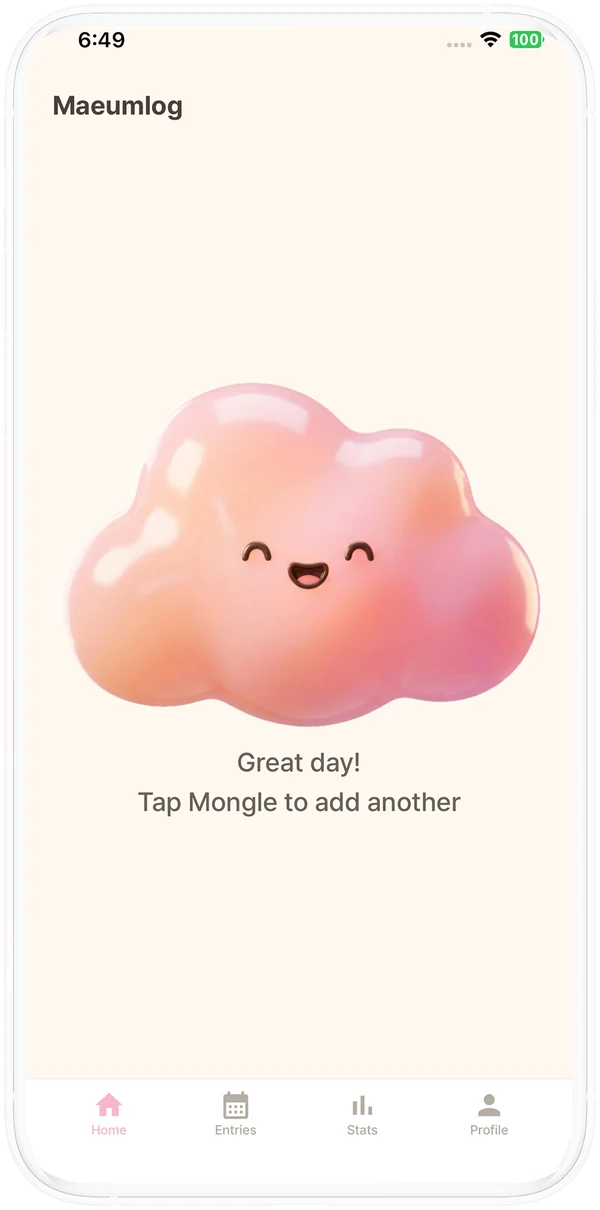
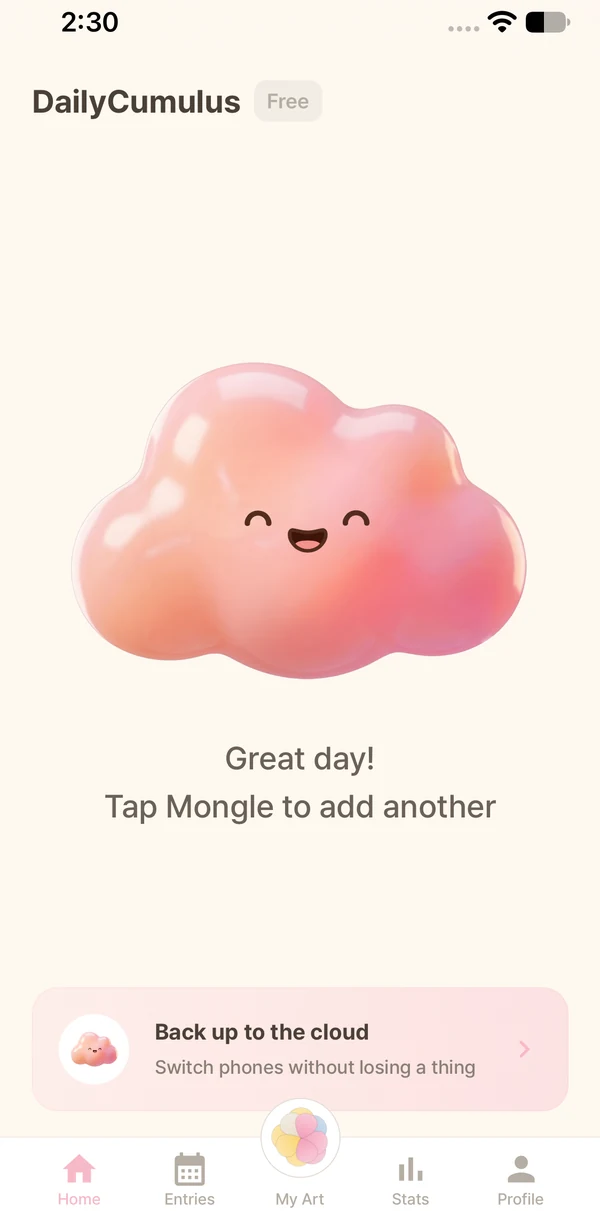
앱 화면을 지금 앱으로 · 2단계를 My Art(한 달이 꽃으로)로 · 최악 한 줄을 앱 문구에 맞춤
- 화면 5장(영어·한국어): 옛 이름 Maeumlog 홈·탭 4개·글자 칩 활동·이모지 통계 → 1.0.9 화면(아이콘 활동·My Art·9월 다 핀 꽃)
- 2단계: 달력 → Watch your month bloom / 한 달이 꽃으로 피어요
- 3단계: Coffee → A good meal(커피는 지금 활동 칩에 없다)
- VERSION 36(그림 캐시)

diff --git a/ko/index.html b/ko/index.html
@@ -7,11 +7,11 @@
   <title>데일리몽글 · 광고 없는 감정일기</title>
   <meta name="description" content="몽글이 한 번 누르고 기분만 고르면 끝. 더 남기고 싶은 날엔 짧은 글이나 사진도 붙여 봐요. 광고 없는 감정일기, 데일리몽글.">
   <!-- 파비콘은 회사 심볼(스티커 M) — assets/brand -->
-  <link rel="icon" href="../favicon.ico?v=35" sizes="any">
-  <link rel="icon" href="../assets/brand/favicon-32.png?v=35" type="image/png" sizes="32x32">
-  <link rel="icon" href="../assets/brand/favicon-192.png?v=35" type="image/png" sizes="192x192">
+  <link rel="icon" href="../favicon.ico?v=36" sizes="any">
+  <link rel="icon" href="../assets/brand/favicon-32.png?v=36" type="image/png" sizes="32x32">
+  <link rel="icon" href="../assets/brand/favicon-192.png?v=36" type="image/png" sizes="192x192">
   <link rel="canonical" href="https://mauvelabsinc.com/ko/">
-  <link rel="apple-touch-icon" href="../assets/brand/apple-touch-icon.png?v=35">
+  <link rel="apple-touch-icon" href="../assets/brand/apple-touch-icon.png?v=36">
   <meta name="theme-color" content="#FFF8F0">
   <!-- 사업자등록번호 등 숫자를 아이폰이 전화번호 링크로 바꾸지 않게 -->
   <meta name="format-detection" content="telephone=no">
@@ -31,12 +31,12 @@
   <link rel="alternate" hreflang="x-default" href="https://mauvelabsinc.com/">
   <link rel="preload" href="../assets/fraunces.woff2" as="font" type="font/woff2" crossorigin>
   <link rel="stylesheet" href="https://cdn.jsdelivr.net/gh/orioncactus/pretendard@v1.3.9/dist/web/variable/pretendardvariable-dynamic-subset.min.css">
-  <link rel="stylesheet" href="../assets/site-v2.css?v=35">
+  <link rel="stylesheet" href="../assets/site-v2.css?v=36">
 </head>
 <body>
 <header class="nav wrap">
   <!-- 회사 로고(모브랩스). 원본은 assets/brand/mauvelabs-logo-original.png -->
-  <a class="brand brand-logo" href="./" aria-label="Mauve Labs"><img src="../assets/brand/mauvelabs-logo@2x.png?v=35" alt="Mauve Labs" height="48"></a>
+  <a class="brand brand-logo" href="./" aria-label="Mauve Labs"><img src="../assets/brand/mauvelabs-logo@2x.png?v=36" alt="Mauve Labs" height="48"></a>
   <nav aria-label="Main">
     <a href="#how">사용법</a>
     <a href="#private" class="hide-sm">개인정보</a>
@@ -52,15 +52,15 @@
       <h1>지금 내 기분, <em>가볍게</em> 남겨요.</h1>
       <p class="lede">몽글이 한 번 누르고 기분만 고르면 끝이에요. 더 쓰고 싶은 날엔 짧은 글이나 사진도 붙여 봐요. 광고도, 부담도 없어요.</p>
       <div class="badges">
-        <a href="https://apps.apple.com/app/id6814691795" aria-label="App Store에서 다운로드"><img src="../img/ko/badge-app-store.svg?v=35" alt="App Store에서 다운로드" height="50"></a>
-        <a href="https://play.google.com/store/apps/details?id=com.mauvelabs.maeumlog&amp;referrer=utm_source%3Dmauvelabs-site%26utm_medium%3Dhero" aria-label="Google Play에서 다운로드하기" class="gp"><img src="../img/ko/badge-google-play.png?v=35" alt="Google Play에서 다운로드하기" height="50"></a>
+        <a href="https://apps.apple.com/app/id6814691795" aria-label="App Store에서 다운로드"><img src="../img/ko/badge-app-store.svg?v=36" alt="App Store에서 다운로드" height="50"></a>
+        <a href="https://play.google.com/store/apps/details?id=com.mauvelabs.maeumlog&amp;referrer=utm_source%3Dmauvelabs-site%26utm_medium%3Dhero" aria-label="Google Play에서 다운로드하기" class="gp"><img src="../img/ko/badge-google-play.png?v=36" alt="Google Play에서 다운로드하기" height="50"></a>
       </div>
       <p class="fine">무료 다운로드 · 아이폰, 안드로이드</p>
     </div>
     <div class="hero-art" aria-hidden="true">
       <!-- 홈 화면이 주인공이고, 통계(기분 그래프)는 그 뒤 옆에 조금 작게(홈 화면을 가리지 않는다) -->
-      <img class="phone phone-side" src="../img/ko/screen-5.webp?v=35" alt="" width="210">
-      <img class="phone phone-main" src="../img/ko/screen-1.webp?v=35" alt="" width="300">
+      <img class="phone phone-side" src="../img/ko/screen-5.webp?v=36" alt="" width="210">
+      <img class="phone phone-main" src="../img/ko/screen-1.webp?v=36" alt="" width="300">
       <span class="float m1 mongle" data-anim="mongle-very-good-bounce"><img src="../img/mongle-very-good.webp" alt=""></span>
       <span class="float m2 mongle" data-anim="mongle-good-bounce"><img src="../img/mongle-good.webp" alt=""></span>
     </div>
@@ -87,9 +87,9 @@
       <div class="story-stage" aria-hidden="true">
         <figure class="polaroid stage-frame"><span class="tape stage-tape"></span>
           <div class="stage-screens">
-            <img src="../img/ko/screen-2.webp?v=35" alt="" class="on" data-step="0">
-            <img src="../img/ko/screen-4.webp?v=35" alt="" data-step="1">
-            <img src="../img/ko/screen-6.webp?v=35" alt="" data-step="2">
+            <img src="../img/ko/screen-2.webp?v=36" alt="" class="on" data-step="0">
+            <img src="../img/ko/screen-4.webp?v=36" alt="" data-step="1">
+            <img src="../img/ko/screen-6.webp?v=36" alt="" data-step="2">
           </div>
         </figure>
       </div>
@@ -98,19 +98,19 @@
           <span class="step-num">01</span>
           <h3>톡톡 눌러서 끝</h3>
           <p>기분을 고르고, 어떤 감정이었는지, 뭘 했는지 톡톡 눌러요. 글은 안 써도 괜찮아요.</p>
-          <figure class="polaroid step-shot tilt-l"><span class="tape pink"></span><img src="../img/ko/screen-2.webp?v=35" alt="데일리몽글에서 기분·감정·활동을 고르는 화면" width="240"></figure>
+          <figure class="polaroid step-shot tilt-l"><span class="tape pink"></span><img src="../img/ko/screen-2.webp?v=36" alt="데일리몽글에서 기분·감정·활동을 고르는 화면" width="240"></figure>
         </li>
         <li class="step" data-step="1">
           <span class="step-num">02</span>
-          <h3>한 달이 한눈에</h3>
-          <p>하루하루가 달력 위 작은 구름이 돼요. 애쓰지 않아도 내 마음 흐름이 보여요.</p>
-          <figure class="polaroid step-shot tilt-r"><span class="tape mint"></span><img src="../img/ko/screen-4.webp?v=35" alt="데일리몽글 달력에 담긴 한 달의 기분" width="240"></figure>
+          <h3>한 달이 꽃으로 피어요</h3>
+          <p>하루가 그날 기분 색 꽃잎 한 장이 돼요. 한 달이 지나면 내 마음들이 꽃 한 송이로 피어나요.</p>
+          <figure class="polaroid step-shot tilt-r"><span class="tape mint"></span><img src="../img/ko/screen-4.webp?v=36" alt="데일리몽글에서 한 달의 기분으로 핀 꽃" width="240"></figure>
         </li>
         <li class="step" data-step="2">
           <span class="step-num">03</span>
           <h3>기분 좋은 날엔 뭐가 있었을까?</h3>
-          <p>통계를 보면 기분 좋은 날 주로 뭘 했는지 알 수 있어요. 친구를 만났나? 운동했나? 커피 한잔?</p>
-          <figure class="polaroid step-shot tilt-l"><span class="tape lilac"></span><img src="../img/ko/screen-6.webp?v=35" alt="기분에 영향을 준 활동을 보여 주는 데일리몽글 통계" width="240"></figure>
+          <p>통계를 보면 기분 좋은 날 주로 뭘 했는지 알 수 있어요. 친구를 만났나? 운동했나? 맛있는 한 끼?</p>
+          <figure class="polaroid step-shot tilt-l"><span class="tape lilac"></span><img src="../img/ko/screen-6.webp?v=36" alt="기분에 영향을 준 활동을 보여 주는 데일리몽글 통계" width="240"></figure>
         </li>
       </ol>
     </div>
@@ -150,8 +150,8 @@
     <span class="mongle cta-mongle" data-anim="mongle-normal-idle"><img src="../img/mongle-normal.webp" alt="" width="180"></span>
     <h2>오늘은 나한테 조금만 너그럽게.</h2>
     <div class="badges center">
-      <a href="https://apps.apple.com/app/id6814691795" aria-label="App Store에서 다운로드"><img src="../img/ko/badge-app-store.svg?v=35" alt="App Store에서 다운로드" height="50"></a>
-      <a href="https://play.google.com/store/apps/details?id=com.mauvelabs.maeumlog&amp;referrer=utm_source%3Dmauvelabs-site%26utm_medium%3Dfooter" aria-label="Google Play에서 다운로드하기" class="gp"><img src="../img/ko/badge-google-play.png?v=35" alt="Google Play에서 다운로드하기" height="50"></a>
+      <a href="https://apps.apple.com/app/id6814691795" aria-label="App Store에서 다운로드"><img src="../img/ko/badge-app-store.svg?v=36" alt="App Store에서 다운로드" height="50"></a>
+      <a href="https://play.google.com/store/apps/details?id=com.mauvelabs.maeumlog&amp;referrer=utm_source%3Dmauvelabs-site%26utm_medium%3Dfooter" aria-label="Google Play에서 다운로드하기" class="gp"><img src="../img/ko/badge-google-play.png?v=36" alt="Google Play에서 다운로드하기" height="50"></a>
     </div>
   </section>
 </main>
@@ -171,7 +171,7 @@
   </div>
 <dl class="biz"><dt>상호</dt><dd>모브랩스(Mauve Labs)</dd><dt>대표자</dt><dd>주창환</dd><dt>사업자등록번호</dt><dd>485-21-02219</dd><dt>통신판매업신고번호</dt><dd>제2026-서울금천-1495호</dd><dt>주소</dt><dd>서울특별시 금천구 범안로12길 29-20, A동 301호(독산동)</dd><dt>이메일</dt><dd>mauvelabs@mauvelabsinc.com</dd></dl><p class="legal">© 2026 모브랩스</p>
 </footer>
-<script src="../assets/scroll.js?v=35"></script>
+<script src="../assets/scroll.js?v=36"></script>
 <script src="../assets/lottie_light.min.js"></script>
 <script>
 /* 몽글이 애니메이션 — 앱과 같은 Lottie(dailycumulus-rn assets/animations)를 웹용으로 줄인 것.
@@ -185,7 +185,7 @@
   document.querySelectorAll('.mongle[data-anim]').forEach(function (el, i) {
     var box = document.createElement('span'); box.className = 'mongle-anim'; el.appendChild(box);
     var a = lottie.loadAnimation({ container: box, renderer: 'svg', loop: true, autoplay: !io,
-      path: '../anim/' + el.dataset.anim + '.json?v=35', rendererSettings: { preserveAspectRatio: 'xMidYMid meet' } });
+      path: '../anim/' + el.dataset.anim + '.json?v=36', rendererSettings: { preserveAspectRatio: 'xMidYMid meet' } });
     a.addEventListener('DOMLoaded', function () {
       a.goToAndStop((i * 17) % a.totalFrames, true); /* 같은 몽글이가 똑같이 움직이지 않게 시작 프레임을 엇갈린다 */
       el.classList.add('is-anim'); el._anim = a; if (io) io.observe(el); else a.play();

diff --git a/index.html b/index.html
@@ -7,11 +7,11 @@
   <title>DailyCumulus: a cute, ad-free mood diary for iPhone and Android</title>
   <meta name="description" content="Tap Mongle, pick how you feel, and you're done. Add a note or a photo if you want. No ads, ever. Made by Mauve Labs.">
   <!-- 파비콘은 회사 심볼(스티커 M) — assets/brand -->
-  <link rel="icon" href="favicon.ico?v=35" sizes="any">
-  <link rel="icon" href="assets/brand/favicon-32.png?v=35" type="image/png" sizes="32x32">
-  <link rel="icon" href="assets/brand/favicon-192.png?v=35" type="image/png" sizes="192x192">
+  <link rel="icon" href="favicon.ico?v=36" sizes="any">
+  <link rel="icon" href="assets/brand/favicon-32.png?v=36" type="image/png" sizes="32x32">
+  <link rel="icon" href="assets/brand/favicon-192.png?v=36" type="image/png" sizes="192x192">
   <link rel="canonical" href="https://mauvelabsinc.com/">
-  <link rel="apple-touch-icon" href="assets/brand/apple-touch-icon.png?v=35">
+  <link rel="apple-touch-icon" href="assets/brand/apple-touch-icon.png?v=36">
   <meta name="theme-color" content="#FFF8F0">
   <!-- 사업자등록번호 등 숫자를 아이폰이 전화번호 링크로 바꾸지 않게 -->
   <meta name="format-detection" content="telephone=no">
@@ -31,12 +31,12 @@
   <link rel="alternate" hreflang="x-default" href="https://mauvelabsinc.com/">
   <link rel="preload" href="assets/fraunces.woff2" as="font" type="font/woff2" crossorigin>
   <link rel="stylesheet" href="https://cdn.jsdelivr.net/gh/orioncactus/pretendard@v1.3.9/dist/web/variable/pretendardvariable-dynamic-subset.min.css">
-  <link rel="stylesheet" href="assets/site-v2.css?v=35">
+  <link rel="stylesheet" href="assets/site-v2.css?v=36">
 </head>
 <body>
 <header class="nav wrap">
   <!-- 회사 로고(모브랩스). 원본은 assets/brand/mauvelabs-logo-original.png -->
-  <a class="brand brand-logo" href="./" aria-label="Mauve Labs"><img src="assets/brand/mauvelabs-logo@2x.png?v=35" alt="Mauve Labs" height="48"></a>
+  <a class="brand brand-logo" href="./" aria-label="Mauve Labs"><img src="assets/brand/mauvelabs-logo@2x.png?v=36" alt="Mauve Labs" height="48"></a>
   <nav aria-label="Main">
     <a href="#how">How it works</a>
     <a href="#private" class="hide-sm">Privacy</a>
@@ -52,15 +52,15 @@
       <h1>A little diary for how you're <em>actually</em> feeling.</h1>
       <p class="lede">Tap Mongle, pick how you feel, and that's it. Want to say more? Add a note or a photo. No ads, no pressure.</p>
       <div class="badges">
-        <a href="https://apps.apple.com/app/id6814691795" aria-label="Download on the App Store"><img src="img/badge-app-store.svg?v=35" alt="Download on the App Store" height="50"></a>
-        <a href="https://play.google.com/store/apps/details?id=com.mauvelabs.maeumlog&amp;referrer=utm_source%3Dmauvelabs-site%26utm_medium%3Dhero" aria-label="Get it on Google Play" class="gp"><img src="img/badge-google-play.png?v=35" alt="Get it on Google Play" height="50"></a>
+        <a href="https://apps.apple.com/app/id6814691795" aria-label="Download on the App Store"><img src="img/badge-app-store.svg?v=36" alt="Download on the App Store" height="50"></a>
+        <a href="https://play.google.com/store/apps/details?id=com.mauvelabs.maeumlog&amp;referrer=utm_source%3Dmauvelabs-site%26utm_medium%3Dhero" aria-label="Get it on Google Play" class="gp"><img src="img/badge-google-play.png?v=36" alt="Get it on Google Play" height="50"></a>
       </div>
       <p class="fine">Free to download · iPhone and Android</p>
     </div>
     <div class="hero-art" aria-hidden="true">
       <!-- 홈 화면이 주인공이고, 통계(기분 그래프)는 그 뒤 옆에 조금 작게(홈 화면을 가리지 않는다) -->
-      <img class="phone phone-side" src="img/screen-5.webp?v=35" alt="" width="210">
-      <img class="phone phone-main" src="img/screen-1.webp?v=35" alt="" width="300">
+      <img class="phone phone-side" src="img/screen-5.webp?v=36" alt="" width="210">
+      <img class="phone phone-main" src="img/screen-1.webp?v=36" alt="" width="300">
       <span class="float m1 mongle" data-anim="mongle-very-good-bounce"><img src="img/mongle-very-good.webp" alt=""></span>
       <span class="float m2 mongle" data-anim="mongle-good-bounce"><img src="img/mongle-good.webp" alt=""></span>
     </div>
@@ -75,7 +75,7 @@
       <li><span class="mongle" data-anim="mongle-good-bounce"><img src="img/mongle-good.webp" alt=""></span><b>Good</b><span>A nice, easy day.</span></li>
       <li><span class="mongle" data-anim="mongle-normal-idle"><img src="img/mongle-normal.webp" alt=""></span><b>Okay</b><span>Ordinary days count too.</span></li>
       <li><span class="mongle" data-anim="mongle-bad-sigh"><img src="img/mongle-bad.webp" alt=""></span><b>Bad</b><span>Rough day, and that's okay.</span></li>
-      <li><span class="mongle" data-anim="mongle-very-bad-sob"><img src="img/mongle-very-bad.webp" alt=""></span><b>Awful</b><span>This will pass. Mongle's right here.</span></li>
+      <li><span class="mongle" data-anim="mongle-very-bad-sob"><img src="img/mongle-very-bad.webp" alt=""></span><b>Awful</b><span>You got through today, and that's enough.</span></li>
     </ul>
   </section>
 
@@ -87,9 +87,9 @@
       <div class="story-stage" aria-hidden="true">
         <figure class="polaroid stage-frame"><span class="tape stage-tape"></span>
           <div class="stage-screens">
-            <img src="img/screen-2.webp?v=35" alt="" class="on" data-step="0">
-            <img src="img/screen-4.webp?v=35" alt="" data-step="1">
-            <img src="img/screen-6.webp?v=35" alt="" data-step="2">
+            <img src="img/screen-2.webp?v=36" alt="" class="on" data-step="0">
+            <img src="img/screen-4.webp?v=36" alt="" data-step="1">
+            <img src="img/screen-6.webp?v=36" alt="" data-step="2">
           </div>
         </figure>
       </div>
@@ -98,19 +98,19 @@
           <span class="step-num">01</span>
           <h3>Check in fast</h3>
           <p>Pick a mood, then tap how you felt and what you did. Writing is totally optional.</p>
-          <figure class="polaroid step-shot tilt-l"><span class="tape pink"></span><img src="img/screen-2.webp?v=35" alt="Choosing a mood, feelings and activities in DailyCumulus" width="240"></figure>
+          <figure class="polaroid step-shot tilt-l"><span class="tape pink"></span><img src="img/screen-2.webp?v=36" alt="Choosing a mood, feelings and activities in DailyCumulus" width="240"></figure>
         </li>
         <li class="step" data-step="1">
           <span class="step-num">02</span>
-          <h3>See your month at a glance</h3>
-          <p>Each day turns into a little cloud on your calendar, so patterns pop out without you even trying.</p>
-          <figure class="polaroid step-shot tilt-r"><span class="tape mint"></span><img src="img/screen-4.webp?v=35" alt="A month of moods on the DailyCumulus calendar" width="240"></figure>
+          <h3>Watch your month bloom</h3>
+          <p>Every day adds a petal in that day's mood color. By the end of the month, your feelings have grown into a flower.</p>
+          <figure class="polaroid step-shot tilt-r"><span class="tape mint"></span><img src="img/screen-4.webp?v=36" alt="A flower grown from a month of moods in DailyCumulus" width="240"></figure>
         </li>
         <li class="step" data-step="2">
           <span class="step-num">03</span>
           <h3>Find out what makes your day better</h3>
-          <p>Your stats show what's usually going on when you feel good. Seeing friends? Working out? Coffee?</p>
-          <figure class="polaroid step-shot tilt-l"><span class="tape lilac"></span><img src="img/screen-6.webp?v=35" alt="DailyCumulus stats showing what lifts your mood" width="240"></figure>
+          <p>Your stats show what's usually going on when you feel good. Seeing friends? Working out? A good meal?</p>
+          <figure class="polaroid step-shot tilt-l"><span class="tape lilac"></span><img src="img/screen-6.webp?v=36" alt="DailyCumulus stats showing what lifts your mood" width="240"></figure>
         </li>
       </ol>
     </div>
@@ -150,8 +150,8 @@
     <span class="mongle cta-mongle" data-anim="mongle-normal-idle"><img src="img/mongle-normal.webp" alt="" width="180"></span>
     <h2>Go easy on yourself today.</h2>
     <div class="badges center">
-      <a href="https://apps.apple.com/app/id6814691795" aria-label="Download on the App Store"><img src="img/badge-app-store.svg?v=35" alt="Download on the App Store" height="50"></a>
-      <a href="https://play.google.com/store/apps/details?id=com.mauvelabs.maeumlog&amp;referrer=utm_source%3Dmauvelabs-site%26utm_medium%3Dfooter" aria-label="Get it on Google Play" class="gp"><img src="img/badge-google-play.png?v=35" alt="Get it on Google Play" height="50"></a>
+      <a href="https://apps.apple.com/app/id6814691795" aria-label="Download on the App Store"><img src="img/badge-app-store.svg?v=36" alt="Download on the App Store" height="50"></a>
+      <a href="https://play.google.com/store/apps/details?id=com.mauvelabs.maeumlog&amp;referrer=utm_source%3Dmauvelabs-site%26utm_medium%3Dfooter" aria-label="Get it on Google Play" class="gp"><img src="img/badge-google-play.png?v=36" alt="Get it on Google Play" height="50"></a>
     </div>
   </section>
 </main>
@@ -171,7 +171,7 @@
   </div>
 <p class="legal">© 2026 Mauve Labs · mauvelabs@mauvelabsinc.com · Seoul, Republic of Korea</p>
 </footer>
-<script src="assets/scroll.js?v=35"></script>
+<script src="assets/scroll.js?v=36"></script>
 <script src="assets/lottie_light.min.js"></script>
 <script>
 /* 몽글이 애니메이션 — 앱과 같은 Lottie(dailycumulus-rn assets/animations)를 웹용으로 줄인 것.
@@ -185,7 +185,7 @@
   document.querySelectorAll('.mongle[data-anim]').forEach(function (el, i) {
     var box = document.createElement('span'); box.className = 'mongle-anim'; el.appendChild(box);
     var a = lottie.loadAnimation({ container: box, renderer: 'svg', loop: true, autoplay: !io,
-      path: 'anim/' + el.dataset.anim + '.json?v=35', rendererSettings: { preserveAspectRatio: 'xMidYMid meet' } });
+      path: 'anim/' + el.dataset.anim + '.json?v=36', rendererSettings: { preserveAspectRatio: 'xMidYMid meet' } });
     a.addEventListener('DOMLoaded', function () {
       a.goToAndStop((i * 17) % a.totalFrames, true); /* 같은 몽글이가 똑같이 움직이지 않게 시작 프레임을 엇갈린다 */
       el.classList.add('is-anim'); el._anim = a; if (io) io.observe(el); else a.play();

diff --git a/build.py b/build.py
@@ -18,7 +18,7 @@ import sys
 ROOT = os.path.dirname(os.path.abspath(__file__))
 SITE = 'https://mauvelabsinc.com/'
 # CSS·JS·애니메이션을 고치면 올린다 — 브라우저가 옛 파일을 붙들지 않게
-VERSION = '35'
+VERSION = '36'
 
 
 def load_locales():
